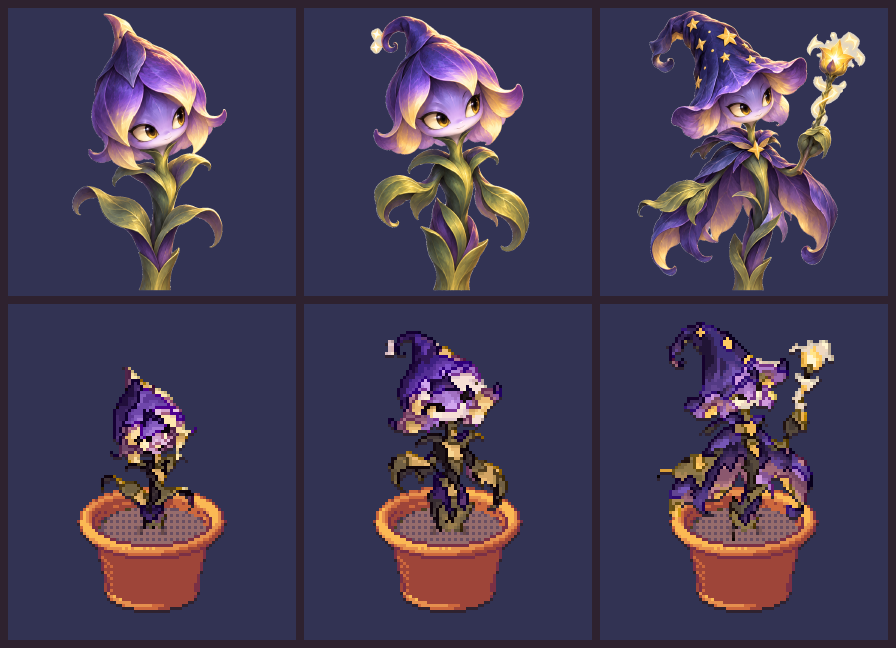
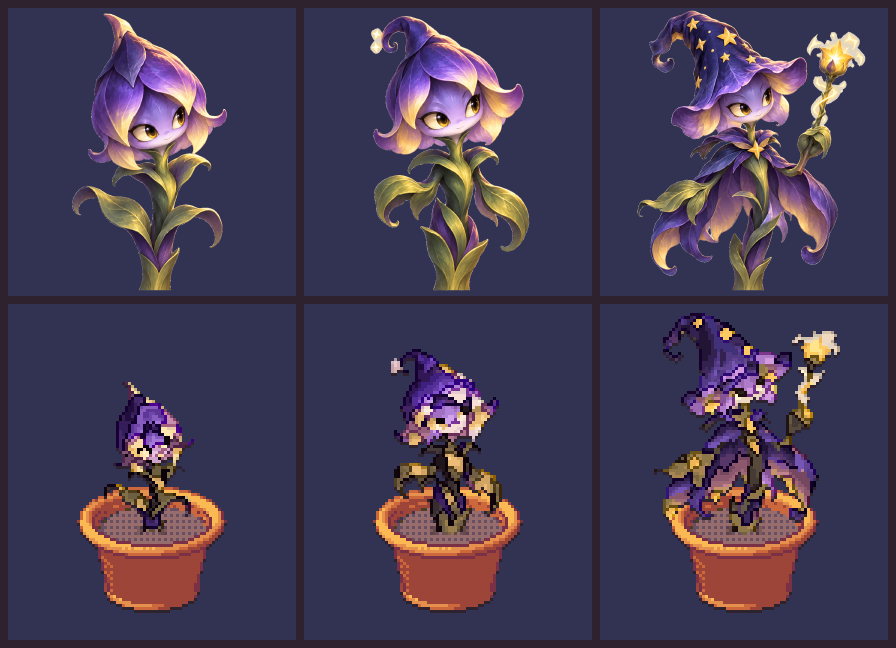
v2: 화분 풀(잔디 마개 · 밑동 갈색 흙 자리 · 자갈 · 앞 풀잎) · 식물 그림의 옛 보라 흙 걷어 내기 · 스마트팜 잔디 판도 같은 흙 자리 · 마법사 성체 키우고 자람 · 어린 줄임

Changed region(s): [[0.7188, 0.463, 0.9375, 0.8333], [0.4062, 0.4938, 0.5625, 0.8333], [0.0938, 0.5556, 0.2188, 0.8333]]

diff --git a/v2/src/art/potgrass.js b/v2/src/art/potgrass.js
@@ -1,0 +1,183 @@
+// 화분 풀 마개 · 밑동 흙 자리(2026-10-17 사용자 "경기나 대기실에서 화분의 흙이 어색한데 — 스마트 팜처럼 풀로 해줄 수 있나 · 풀도 더 자연스럽게 ·
+//  흙이나 자갈 등으로 자연스러운 경계가 되게"):
+//  capOf(화분 뒤 그림)   = 그 그림의 흙 칸 위 잔디 — 스마트팜 잔디와 같은 띠(뒤 어둡게 · 앞 밝게)에 옆으로 긴 얼룩 · 드문 풀잎 점 · 뒤 테 밑 그늘 · 테 쪽 삐죽 풀잎
+//  ringOf(식물, 뒤 그림) = 밑동 둘레 울퉁불퉁한 갈색 흙 자리(가장자리는 풀이 군데군데 덮음) + 자갈 몇 알 + 밑동에 닿은 그늘(식물 뒤) ·
+//                          front = 흙 자리 앞 테두리 풀잎 몇 가닥(밑동 앞 — 밑동이 풀 사이에서 나옴)
+//  bareOf(식물, 기본 화분 뒤) = 식물 그림에 구워 둔 옛 흙 덮기(보랏빛 흙 무늬 · 닿은 그림자 — tools/pixel/big/potblend.mjs soilCover)를 걷어 낸 판:
+//                          흙 덮기 칸 = 기본 각도 화분 뒤 그림의 그 칸 그대로(또는 ×0.68 · ×0.84 그늘) → 지우면 밑에 깐 흙 자리 · 풀이 보임
+//  dirtOf(식물, 기본 화분 뒤) = 같은 칸을 지우지 않고 갈색 흙(DIRT)으로 다시 칠한 판 — 스마트팜 잔디 판(앉힌 만큼 올려 그려 흙 덮기 띠가 보임)
+//  모두 96×112 판(식물은 시트 한 장)을 한 번 만들어 두고 다시 씀 — 그리는 순서: 화분 뒤 → cap → ring → 식물 under(bare) → front → 화분 앞 → over
+import { GRASS, POT_SOIL, DIRT, GRAVEL } from './palette.js';
+
+const W = 96, H = 112;
+const hsh = (a, b, c) => { let h = Math.imul(a | 0, 374761393) + Math.imul(b | 0, 668265263) + Math.imul(c | 0, 1442695041); h = Math.imul(h ^ (h >>> 13), 1274126177); return ((h ^ (h >>> 16)) >>> 0) / 4294967296; };
+const sm = t => t * t * (3 - 2 * t);
+const clamp = (v, a, b) => Math.max(a, Math.min(b, v));
+// 부드러운 결 소음(칸 sx × sy 격자 위 값을 이어 붙임) — 옆으로 긴 얼룩
+function vnoise(x, y, sx, sy, seed) {
+  const fx = x / sx, fy = y / sy, ix = Math.floor(fx), iy = Math.floor(fy), tx = sm(fx - ix), ty = sm(fy - iy);
+  const a = hsh(ix, iy, seed), b = hsh(ix + 1, iy, seed), c = hsh(ix, iy + 1, seed), d = hsh(ix + 1, iy + 1, seed);
+  return (a + (b - a) * tx) * (1 - ty) + (c + (d - c) * tx) * ty;
+}
+const hex = s => [parseInt(s.slice(1, 3), 16), parseInt(s.slice(3, 5), 16), parseInt(s.slice(5, 7), 16)];
+const SOIL_RGB = POT_SOIL.map(hex), DIRT_RGB = DIRT.map(hex);
+let tmpC = null;
+function pixelsOf(im, sx = 0, sy = 0) {   // 그림(또는 시트의 한 칸 96×112)의 RGBA
+  if (!tmpC) tmpC = document.createElement('canvas');
+  tmpC.width = W; tmpC.height = H;
+  const c = tmpC.getContext('2d', { willReadFrequently: true });
+  c.clearRect(0, 0, W, H); c.drawImage(im, sx, sy, W, H, 0, 0, W, H);
+  return c.getImageData(0, 0, W, H).data;
+}
+function canvasOf(put) {
+  const cv = document.createElement('canvas'); cv.width = W; cv.height = H;
+  const c = cv.getContext('2d'), img = c.createImageData(W, H);
+  put((x, y, col) => { if (x < 0 || y < 0 || x >= W || y >= H) return; const k = (y * W + x) * 4, [r, g, b] = hex(col); img.data[k] = r; img.data[k + 1] = g; img.data[k + 2] = b; img.data[k + 3] = 255; });
+  c.putImageData(img, 0, 0);
+  return cv;
+}
+// 흙 칸 틀(화분 뒤 그림에서 흙 색표인 칸) + 행 범위
+const maskCache = new WeakMap();
+function soilMask(back) {
+  let m = maskCache.get(back); if (m) return m;
+  const d = pixelsOf(back), M = new Uint8Array(W * H);
+  let y0 = H, y1 = -1, x0 = W, x1 = -1;
+  for (let y = 40; y < 100; y++) for (let x = 8; x < 88; x++) {
+    const k = (y * W + x) * 4; if (d[k + 3] < 128) continue;
+    if (SOIL_RGB.some(([r, g, b]) => d[k] === r && d[k + 1] === g && d[k + 2] === b)) { M[y * W + x] = 1; y0 = Math.min(y0, y); y1 = Math.max(y1, y); x0 = Math.min(x0, x); x1 = Math.max(x1, x); }
+  }
+  // 흙 덩어리에 안 붙은 외딴 칸(화분 테의 어두운 테두리 칸 등)은 뺌 — 4이웃 중 흙이 하나 이하
+  for (let y = y0; y <= y1; y++) for (let x = x0; x <= x1; x++) { const i = y * W + x; if (M[i] && (M[i - 1] || 0) + (M[i + 1] || 0) + (M[i - W] || 0) + (M[i + W] || 0) <= 1) M[i] = 2; }
+  for (let i = 0; i < W * H; i++) if (M[i] === 2) M[i] = 0;
+  m = { M, y0, y1, x0, x1, d, opaque: i => d[i * 4 + 3] >= 128 };
+  maskCache.set(back, m); return m;
+}
+// ① 잔디 마개
+const capCache = new WeakMap();
+export function capOf(back) {
+  if (!back) return null;
+  let cv = capCache.get(back); if (cv) return cv;
+  const S = soilMask(back), { M, y0, y1 } = S, span = Math.max(1, y1 - y0), thin = span <= 4, seed = 7;
+  cv = canvasOf(put => {
+    for (let y = y0; y <= y1; y++) for (let x = S.x0; x <= S.x1; x++) {
+      const i = y * W + x; if (!M[i]) continue;
+      const k = (y - y0) / span;
+      let c = k > 0.7 ? 6 : k > 0.3 ? 5 : 4;                                  // 스마트팜 잔디와 같은 띠(뒤 → 앞 밝게)
+      const blob = vnoise(x, y, thin ? 7 : 6, thin ? 2 : 2.6, seed);          // 옆으로 긴 얼룩 — 띠가 자로 잰 듯 곧지 않게
+      if (blob > 0.68) c += 1; else if (blob < 0.3) c -= 1;
+      if (!M[i - W]) c = Math.min(c, 3); else if (!M[i - 2 * W]) c = Math.min(c, 4);   // 뒤 테 밑 = 그늘(두 줄)
+      const v = hsh(x, y, seed);
+      if (v > 0.9) c = Math.max(c, 7) + (v > 0.985 ? 1 : 0);                  // 풀잎 점은 드문드문(빽빽하면 자글자글)
+      else if (v < 0.04) c = Math.min(c, 3);
+      put(x, y, GRASS[clamp(c, 2, 8)]);
+    }
+    // 뒤 테 쪽 위로 삐죽 풀잎(안쪽 벽 앞 — 1칸, 가끔 2칸) — 얇은 각도(대기실 12°)는 1칸만
+    for (let x = S.x0; x <= S.x1; x++) {
+      let yt = -1; for (let y = y0; y <= y1; y++) if (M[y * W + x]) { yt = y; break; }
+      if (yt < 0) continue;
+      const v = hsh(x, 3, 31); if (v < 0.6) continue;
+      const h = !thin && v > 0.92 ? 2 : 1;
+      for (let j = 1; j <= h; j++) if (S.opaque((yt - j) * W + x)) put(x, yt - j, GRASS[j === h ? 5 : 4]);
+    }
+  });
+  capCache.set(back, cv); return cv;
+}
+// 밑동 자리 재기: 식물 under 층 첫 장에서 흙 줄 바로 위 줄의 밑동 덩어리(가운데에 가장 가까운) — [왼쪽, 오른쪽, 아래 끝 줄]
+function stemOf(P) {
+  const m = P.meta, d = pixelsOf(P.sheet, 0, 0), ys = Math.round(m.soil[1]), cx = Math.round(m.soil[0]);
+  const soilish = k => SOIL_RGB.some(([r, g, b]) => Math.abs(d[k] - r) + Math.abs(d[k + 1] - g) + Math.abs(d[k + 2] - b) < 24);
+  for (let y = ys; y >= ys - 8; y--) {   // 흙 덮기 칸(흙 색)은 밑동으로 안 셈
+    const on = x => { const k = (y * W + x) * 4; return d[k + 3] >= 128 && !soilish(k); };
+    let best = null;
+    for (let x = cx - 24; x <= cx + 24; x++) {
+      if (!on(x)) continue;
+      let r = x; while (r + 1 <= cx + 24 && on(r + 1)) r++;
+      const dist = x <= cx && r >= cx ? 0 : Math.min(Math.abs(x - cx), Math.abs(r - cx));
+      if (!best || dist < best.dist) best = { l: x, r, dist };
+      x = r;
+    }
+    if (best && best.dist <= 8) return [best.l, best.r, y];
+  }
+  return [cx - 2, cx + 2, ys];
+}
+// ② 밑동 흙 자리 + 앞 풀잎 — 화분(뒤 그림 흙 칸 안) · 잔디 판(bed — 칸 틀 없음)
+const ringCache = new Map();
+function ringOf2(P, key, back) {
+  const id = key + '|' + (back ? (back.src || back.width + 'x' + back.height + ':' + (ringCache.size)) : 'bed');
+  let r = ringCache.get(id); if (r) return r;
+  const [l, rr, sy] = stemOf(P), S = back ? soilMask(back) : null, span = S ? Math.max(1, S.y1 - S.y0) : 6;
+  const cx = (l + rr + 1) / 2, rx = Math.max(5, (rr - l + 1) / 2 + 4), k = S ? Math.min(0.42, (span + 1) / Math.max(1, S.x1 - S.x0 + 1) * 1.15) : 0.3, ry = Math.max(1.5, rx * k);
+  const cy = S ? Math.min(sy + 0.5, S.y1 - ry * 0.4) : sy + 0.5, seed = key.length * 13 + (back ? 1 : 2);
+  const inside = (x, y) => {
+    if (S && !S.M[y * W + x]) return false;
+    const dx = (x + 0.5 - cx) / rx, dy = (y + 0.5 - cy) / ry, a = Math.atan2(dy, dx);
+    return Math.hypot(dx, dy) < 0.86 + 0.32 * vnoise(Math.cos(a) * 3 + 9, Math.sin(a) * 3 + 9, 1.3, 1.3, seed);
+  };
+  const ring = canvasOf(put => {
+    for (let y = Math.floor(cy - ry - 2); y <= Math.ceil(cy + ry + 2); y++) for (let x = Math.floor(cx - rx - 2); x <= Math.ceil(cx + rx + 2); x++) {
+      if (!inside(x, y)) continue;
+      const edge = !inside(x - 1, y) || !inside(x + 1, y) || !inside(x, y - 1) || !inside(x, y + 1);
+      if (edge && hsh(x, y, seed + 77) < 0.3) continue;                          // 가장자리는 풀이 군데군데 덮음(자로 그은 테두리가 안 보이게)
+      const v = hsh(x, y, seed), near = Math.hypot((x + 0.5 - cx) / rx, (y + 0.5 - cy) / ry);
+      let c = v > 0.97 ? 4 : v > 0.86 ? 3 : v < 0.1 ? 1 : 2;                    // 갈색 흙 · 군데군데 밝은 부스러기
+      if (!inside(x, y - 1)) c = Math.min(c, 1);                                  // 흙 자리 뒤 가장자리 = 풀 그늘
+      if (near < 0.42) c = Math.min(c, 1);                                        // 밑동 둘레 = 그늘
+      put(x, y, DIRT[c]);
+    }
+    // 밑동에 닿은 그늘(밑동 양옆 두 칸)
+    for (const [x, c] of [[l - 1, 0], [l - 2, 1], [rr + 1, 0], [rr + 2, 1]]) for (const y of [sy, sy + 1]) if (inside(x, y)) put(x, y, DIRT[c]);
+    // 자갈: 흙 자리 앞쪽 반(밑동에 안 가리는 쪽) 가장자리에 두세 알(밝은 칸 + 몸 칸 + 아래 그늘)
+    let n = 0;
+    for (let t = 0; t < 60 && n < 3; t++) {
+      const a = (0.08 + 0.84 * hsh(t, seed, 71)) * Math.PI, q = 0.55 + 0.35 * hsh(t, seed, 73), x = Math.round(cx + Math.cos(a) * rx * q), y = Math.round(cy + Math.sin(a) * ry * q);
+      if (!inside(x, y) || !inside(x + 1, y) || (x >= l - 2 && x <= rr + 2)) continue;
+      put(x, y, GRAVEL[3]); put(x + 1, y, GRAVEL[2]); if (ry >= 2 && inside(x, y + 1)) put(x + (hsh(t, seed, 79) > 0.5 ? 1 : 0), y + 1, GRAVEL[0]);
+      n++;
+    }
+  });
+  // 앞 풀잎: 흙 자리 앞 테두리 바로 아래에서 위로 1~3칸(얇은 각도는 1~2칸) — 밑동 앞에 겹쳐 그림
+  const front = canvasOf(put => {
+    const hmax = ry < 1.6 ? 2 : 3;
+    for (let x = Math.floor(cx - rx); x <= Math.ceil(cx + rx); x++) {
+      let yb = -1; for (let y = Math.ceil(cy + ry + 1); y >= Math.floor(cy - ry); y--) if (inside(x, y)) { yb = y; break; }
+      if (yb < 0) continue;
+      const v = hsh(x, 5, seed), onStem = x >= l && x <= rr;
+      if (v < (onStem ? 0.35 : 0.55)) continue;
+      const h = 1 + Math.floor(hsh(x, 9, seed) * hmax), base = yb + 1;
+      if (S && !S.M[base * W + x] && !S.M[(base - 1) * W + x]) continue;
+      for (let j = 0; j < h; j++) put(x + (j === h - 1 && hsh(x, 11, seed) > 0.7 ? (hsh(x, 13, seed) > 0.5 ? 1 : -1) : 0), base - j, GRASS[j === h - 1 ? 7 : j ? 6 : 5]);
+    }
+  });
+  r = { ring, front };
+  if (ringCache.size > 200) ringCache.clear();
+  ringCache.set(id, r); return r;
+}
+export const ringOf = (P, key, back) => (P && back ? ringOf2(P, key, back) : null);
+export const bedOf = (P, key) => (P ? ringOf2(P, key, null) : null);
+// ③ 옛 흙 덮기를 걷어 낸(bare) · 갈색으로 다시 칠한(dirt) 식물 시트(under 칸만 — over 는 화분 앞에 나온 덩어리라 흙 덮기가 없음)
+const bareCache = new WeakMap(), dirtCache = new WeakMap();
+export const bareOf = (P, back) => stripCover(P, back, bareCache, false);
+export const dirtOf = (P, back) => stripCover(P, back, dirtCache, true);
+function stripCover(P, back, cache, dirt) {
+  if (!P || !back) return null;
+  let cv = cache.get(P.sheet); if (cv) return cv;
+  const m = P.meta, S = soilMask(back), bd = S.d, sh = P.sheet;
+  cv = document.createElement('canvas'); cv.width = sh.width; cv.height = sh.height;
+  const c = cv.getContext('2d', { willReadFrequently: true }); c.drawImage(sh, 0, 0);
+  const img = c.getImageData(0, 0, cv.width, cv.height), d = img.data, SW = cv.width, row0 = Math.max(S.y0, Math.floor(m.soil[1]) - 2);
+  for (let fy = 0; fy < m.rows; fy++) for (let fx = 0; fx < m.cols; fx++) {
+    const ox = fx * m.w, oy = fy * m.h;
+    for (let y = row0; y <= S.y1; y++) for (let x = S.x0; x <= S.x1; x++) {
+      if (!S.M[y * W + x]) continue;
+      const k = ((oy + y) * SW + ox + x) * 4; if (d[k + 3] < 128) continue;
+      const b = (y * W + x) * 4;
+      for (const f of [1, 0.68, 0.84]) if (Math.abs(d[k] - Math.round(bd[b] * f)) <= 1 && Math.abs(d[k + 1] - Math.round(bd[b + 1] * f)) <= 1 && Math.abs(d[k + 2] - Math.round(bd[b + 2] * f)) <= 1) {
+        if (!dirt) { d[k + 3] = 0; break; }
+        const si = SOIL_RGB.findIndex(([r, g2, b2]) => r === bd[b] && g2 === bd[b + 1] && b2 === bd[b + 2]), di = Math.max(0, Math.min(4, (si < 0 ? 2 : si) - (f < 1 ? (f < 0.8 ? 2 : 1) : 0)));
+        const [r, g2, b2] = DIRT_RGB[di]; d[k] = r; d[k + 1] = g2; d[k + 2] = b2; break;
+      }
+    }
+  }
+  c.putImageData(img, 0, 0);
+  cache.set(P.sheet, cv); return cv;
+}

diff --git a/v2/src/art/sprites.js b/v2/src/art/sprites.js
@@ -1,6 +1,7 @@
 // 그림 파일(48×56 도트) 불러오기. 원본 레시피 = tools/pixel/sprites-data.js, 내보내기 = node tools/pixel/export.mjs
 import { C } from './palette.js';
 import { frameAt } from '../core/motion.js';
+import { capOf, ringOf, bedOf, bareOf, dirtOf } from './potgrass.js';
 
 // 첫 출시 도감 = 1궤도 행성 세 곳의 기본 11종 + 지역 희귀 스포어캡
 export const ROSTER = ['flower_grass', 'thorn', 'aqua', 'flower_wind', 'spark', 'vine_water', 'cactus_fire', 'gaia', 'flower_fire', 'cactus_wind', 'vine_wind', 'spore_cap', 'frost_bell', 'volt_vine', 'stone_cap', 'jelly_cap', 'fang_trap', 'blade_vine', 'toxi_cactus', 'draco_fruit', 'ember_cap', 'drake_cactus', 'gat_cap', 'mask_vine', 'drum_cactus', 'lantern_vine', 'jar_cactus', 'goblin_cap', 'crown_cap', 'frost_drake', 'gladi_cactus', 'jangseung_cactus', 'astro_cap', 'viking_cap', 'hyunmu_cap', 'gumiho_bloom', 'wizard_bell', 'ninja_vine', 'diver_vine'];
@@ -124,6 +125,26 @@ function part(g, im, sx, sy, w, h, x, y, flip, dw = w, dh = h) {
   if (flip) { c.save(); c.translate(x + dw, y); c.scale(-1, 1); c.drawImage(im, sx, sy, w, h, 0, 0, dw, dh); c.restore(); }
   else c.drawImage(im, sx, sy, w, h, x, y, dw, dh);
 }
+// 화분 풀(2026-10-17 사용자 "경기나 대기실에서 화분의 흙이 어색한데 — 스마트 팜처럼 풀로 · 흙이나 자갈 등으로 자연스러운 경계", art/potgrass.js):
+//  화분 뒤 → 풀 마개 → 밑동 흙 자리(식물 뒤) → 식물 under → 앞 풀잎(밑동 앞) → 화분 앞 → over
+function grassBack(g, P, key, back, x, y, fl) {
+  const cap = capOf(back); if (cap) part(g, cap, 0, 0, 96, 112, x, y, fl);
+  const r = P && ringOf(P, key, back); if (r) part(g, r.ring, 0, 0, 96, 112, x, y, fl);
+  return r;
+}
+const grassFront = (g, r, x, y, fl) => { if (r) part(g, r.front, 0, 0, 96, 112, x, y, fl); };
+// 옛 흙 덮기(보랏빛 흙 무늬)를 걷어 낸 시트 + 맞은 순간 흰 판(art/potgrass.js bareOf — 기본 각도 테라코타 뒤 그림을 받은 뒤부터, 그 전엔 원래 시트)
+function bareSet(P) {
+  if (P.bare) return P.bare;
+  const back = POT_BIG.pot_terra && POT_BIG.pot_terra.back, sheet = back && bareOf(P, back);
+  if (!sheet) return { sheet: P.sheet, white: P.white };
+  return (P.bare = { sheet, white: whiteOf(sheet) });
+}
+function dirtSheet(P) {   // 스마트팜 잔디 판: 흙 덮기 띠를 갈색 흙으로
+  if (P.dirt) return P.dirt;
+  const back = POT_BIG.pot_terra && POT_BIG.pot_terra.back, sheet = back && dirtOf(P, back);
+  return sheet ? (P.dirt = sheet) : P.sheet;
+}
 // 화분에 심은 큰 판 식물: (bx, by) = 화분 굽이 바닥에 닿는 점. t = 시각(ms), phase = 숨 엇갈림(ms), flip = 좌우 뒤집기(상대), flash = 맞은 순간 하얗게
 // 게임 단계 → 그림 단계(CHANGELOG 2026-10-15 "게임 6단계와 잇기": 씨앗·새싹·유체 → 어린, 성장체 → 자람, 성체·완숙체 → 성체)
 const STAGE_ART = { seed: 'young', sprout: 'young', juvenile: 'young', growing: 'teen', mature: null, evolved: null };
@@ -140,15 +161,17 @@ export function drawBig(g, key, potKey, bx, by, opt = {}) {
   by -= vdy;
   if (!P) {   // 빈 화분
     const x = Math.round(bx - 48), y = Math.round(by - 96.55);
-    part(g, pot.back, 0, 0, 96, 112, x, y, false); part(g, pot.front, 0, 0, 96, 112, x, y, false);
+    part(g, pot.back, 0, 0, 96, 112, x, y, false); grassBack(g, null, null, pot.back, x, y, false); part(g, pot.front, 0, 0, 96, 112, x, y, false);
     return !key;
   }
   const m = P.meta, x = Math.round(bx - m.base[0]), y = Math.round(by - m.base[1]), t = Math.max(0, (opt.t || 0) + (opt.phase || 0));
   let f = frameAt(t, m.frameMs, m.frames);
   if (m.blinkIndex != null && f >= m.blinkAt && f < m.blinkAt + 4 && blinkLoop(key, Math.floor(t / (m.frames * m.frameMs)))) f = m.blinkIndex + f - m.blinkAt;
-  const sx = (f % m.cols) * m.w, sy = Math.floor(f / m.cols) * m.h, src = opt.flash ? P.white : P.sheet, fl = !!opt.flip;
+  const sx = (f % m.cols) * m.w, sy = Math.floor(f / m.cols) * m.h, B = bareSet(P), src = opt.flash ? B.white : B.sheet, fl = !!opt.flip;
   part(g, pot.back, 0, 0, m.w, m.h, x, y, fl);
+  const gr = grassBack(g, P, key, pot.back, x, y, fl);
   part(g, src, sx, sy, m.w, m.h, x, y, fl);
+  grassFront(g, gr, x, y, fl);
   part(g, pot.front, 0, 0, m.w, m.h, x, y, fl);
   part(g, src, sx, sy + m.rows * m.h, m.w, m.h, x, y, fl);
   return true;
@@ -162,13 +185,13 @@ export function plantLayer(key, potKey, bx, by, opt = {}) {
   const m = P.meta, x = Math.round(bx - m.base[0]), y = Math.round(by - vdy - m.base[1]), t = Math.max(0, (opt.t || 0) + (opt.phase || 0));
   let f = frameAt(t, m.frameMs, m.frames);
   if (m.blinkIndex != null && f >= m.blinkAt && f < m.blinkAt + 4 && blinkLoop(key, Math.floor(t / (m.frames * m.frameMs)))) f = m.blinkIndex + f - m.blinkAt;
-  const sx = (f % m.cols) * m.w, sy = Math.floor(f / m.cols) * m.h;
+  const sx = (f % m.cols) * m.w, sy = Math.floor(f / m.cols) * m.h, B = bareSet(P);
   if (!layerCv) { layerCv = document.createElement('canvas'); layerCx = layerCv.getContext('2d', { willReadFrequently: true }); }
   if (layerCv.width !== m.w || layerCv.height !== m.h) { layerCv.width = m.w; layerCv.height = m.h; }
   const c = layerCx; c.imageSmoothingEnabled = false; c.clearRect(0, 0, m.w, m.h);
-  c.globalCompositeOperation = 'source-over'; c.drawImage(P.sheet, sx, sy, m.w, m.h, 0, 0, m.w, m.h);
+  c.globalCompositeOperation = 'source-over'; c.drawImage(B.sheet, sx, sy, m.w, m.h, 0, 0, m.w, m.h);
   c.globalCompositeOperation = 'destination-out'; c.drawImage(pot.front, 0, 0, m.w, m.h, 0, 0, m.w, m.h);
-  c.globalCompositeOperation = 'source-over'; c.drawImage(P.sheet, sx, sy + m.rows * m.h, m.w, m.h, 0, 0, m.w, m.h);
+  c.globalCompositeOperation = 'source-over'; c.drawImage(B.sheet, sx, sy + m.rows * m.h, m.w, m.h, 0, 0, m.w, m.h);
   return { img: c.getImageData(0, 0, m.w, m.h), x, y, w: m.w, h: m.h, flip: !!opt.flip };
 }
 // 큰 판 한 장 고르기(숨쉬기 + 깜빡임)
@@ -177,15 +200,18 @@ function bigFrame(key, m, t) {
   if (m.blinkIndex != null && f >= m.blinkAt && f < m.blinkAt + 4 && blinkLoop(key, Math.floor(t / (m.frames * m.frameMs)))) f = m.blinkIndex + f - m.blinkAt;
   return [(f % m.cols) * m.w, Math.floor(f / m.cols) * m.h];
 }
-// 잔디에 심긴 큰 판 식물(화분 없이, 양육 스마트팜): (bx, by) = 흙 줄 가운데. 흙 줄 아래는 안 그림 — 뒤 층 → between(잔디 덤불) → 앞 층
+// 잔디에 심긴 큰 판 식물(화분 없이, 양육 스마트팜): (bx, by) = 흙 줄 가운데. 흙 줄 아래는 안 그림 — 밑동 흙 자리(식물 뒤) → 뒤 층 → 앞 풀잎 → between → 앞 층
+//  흙 자리 · 풀잎 = 화분과 같은 것(art/potgrass.js bedOf — 2026-10-17 사용자 "풀도 더 자연스럽게 · 흙이나 자갈 등으로 자연스러운 경계"), 흙 덮기 띠는 갈색 흙으로(dirtOf)
 export function drawBigPlanted(g, key, bx, by, opt = {}) {
   const P = BIG[key]; if (!P) return false;
   //  화분에 앉힌 칸(m.sink — 굵은 밑동이 화분 흙에 묻히게 내린 만큼)은 잔디에선 다시 올림: 안 올리면 밑동이 잘려 움푹 파인 듯 · 뒤에 놓인 듯 보였음(2026-10-17 사용자 "스마트팜에서 불 선인장 밑동이 움푹 파여 있고 뒤에 배치된 것 같아")
   const m = P.meta, x = Math.round(bx - m.soil[0]), y = Math.round(by - m.soil[1] - (m.sink || 0)), [sx, sy] = bigFrame(key, m, Math.max(0, (opt.t || 0) + (opt.phase || 0)));
-  const cut = Math.round(by) - y;
-  g.clip(x, y, m.w, cut, () => part(g, P.sheet, sx, sy, m.w, m.h, x, y, false));
+  const cut = Math.round(by) - y, bed = bedOf(P, key), D = dirtSheet(P), ry = y + (m.sink || 0);   // 흙 자리는 흙 줄에(잔디 판은 앉힌 만큼 올려 그리므로 그만큼 내려 그림)
+  if (bed) part(g, bed.ring, 0, 0, 96, 112, x, ry, false);
+  g.clip(x, y, m.w, cut, () => part(g, D, sx, sy, m.w, m.h, x, y, false));
+  if (bed) part(g, bed.front, 0, 0, 96, 112, x, ry, false);
   if (opt.between) opt.between();
-  g.clip(x, y, m.w, cut + 2, () => part(g, P.sheet, sx, sy + m.rows * m.h, m.w, m.h, x, y, false));
+  g.clip(x, y, m.w, cut + 2, () => part(g, D, sx, sy + m.rows * m.h, m.w, m.h, x, y, false));
   return true;
 }
 // 화분째 큰 판 식물: (bx, by) = 화분 흙 줄 가운데. between = 흙 위 잔디 마개 등 — 식물 뒤에(capUnder — 몸통이 넓은 선인장 · 버섯도 마개에 묻혀 '얹힌' 듯 보이지 않게, 2026-10-16 사용자 "불 선인장이 화분의 중앙이 아닌 다른 곳에")
@@ -195,11 +221,13 @@ export function drawBigPotted(g, key, potKey, bx, by, opt = {}) {
   const m = P ? P.meta : { w: 96, h: 112, soil: [48, 75.7] }, x = Math.round(bx - m.soil[0]), y = Math.round(by - m.soil[1]);
   const rv = opt.reveal == null ? 1 : Math.max(0, Math.min(1, opt.reveal)), cy = y + Math.round(m.soil[1] * (1 - rv)), plant = fn => (rv >= 1 ? fn() : g.clip(x, cy, m.w, m.h, fn));
   part(g, pot.back, 0, 0, 96, 112, x, y, false);
+  const gr = grassBack(g, P, key, pot.back, x, y, false);
   if (opt.between && opt.capUnder) opt.between(x, y);
-  let sx = 0, sy = 0; if (P && rv > 0) { [sx, sy] = bigFrame(key, m, Math.max(0, (opt.t || 0) + (opt.phase || 0))); plant(() => part(g, P.sheet, sx, sy, m.w, m.h, x, y, false)); }
+  let sx = 0, sy = 0; const B = P && bareSet(P); if (P && rv > 0) { [sx, sy] = bigFrame(key, m, Math.max(0, (opt.t || 0) + (opt.phase || 0))); plant(() => part(g, B.sheet, sx, sy, m.w, m.h, x, y, false)); }
+  if (P && rv > 0) grassFront(g, gr, x, y, false);
   if (opt.between && !opt.capUnder) opt.between(x, y);
   part(g, pot.front, 0, 0, 96, 112, x, y, false);
-  if (P && rv > 0) plant(() => part(g, P.sheet, sx, sy + m.rows * m.h, m.w, m.h, x, y, false));
+  if (P && rv > 0) plant(() => part(g, B.sheet, sx, sy + m.rows * m.h, m.w, m.h, x, y, false));
   return true;
 }
 // 몸놀림을 준 큰 판 식물(전투 공격·피격): 흙 위 몸만 기울인다 — 흙 높이 0 → 맨 위 1만큼 (qx, qy)칸(그림 좌표, 뒤집기 전),
@@ -210,7 +238,7 @@ export function drawBigPose(g, key, potKey, bx, by, opt = {}) {
   by -= vdy;
   const m = P.meta, x = Math.round(bx - m.base[0]), y = Math.round(by - m.base[1]), t = Math.max(0, (opt.t || 0) + (opt.phase || 0));
   const f = frameAt(t, m.frameMs, m.frames), sx = (f % m.cols) * m.w, sy = Math.floor(f / m.cols) * m.h;
-  const src = opt.flash ? P.white : P.sheet, fl = !!opt.flip, soil = m.soil[1], sc = 1 - (opt.sq || 0) * 0.03, qx = opt.qx || 0, qy = opt.qy || 0;
+  const B = bareSet(P), src = opt.flash ? B.white : B.sheet, fl = !!opt.flip, soil = m.soil[1], sc = 1 - (opt.sq || 0) * 0.03, qx = opt.qx || 0, qy = opt.qy || 0;
   const rows = oy => {
     const c = g.c; c.save(); c.imageSmoothingEnabled = false;
     if (fl) { c.translate(x + m.w, y); c.scale(-1, 1); } else c.translate(x, y);
@@ -223,7 +251,9 @@ export function drawBigPose(g, key, potKey, bx, by, opt = {}) {
     c.restore();
   };
   part(g, pot.back, 0, 0, m.w, m.h, x, y, fl);
+  const gr = grassBack(g, P, key, pot.back, x, y, fl);
   rows(sy);
+  grassFront(g, gr, x, y, fl);
   part(g, pot.front, 0, 0, m.w, m.h, x, y, fl);
   rows(sy + m.rows * m.h);
   return true;

diff --git a/v2/src/scenes/nursery.js b/v2/src/scenes/nursery.js
@@ -225,9 +225,10 @@ export const nursery = {
   },
   // 잔디에 심긴 식물(큰 판 그림 — 2026-10-15 "식물이 너무 멀어 좀 땡겨와줘", 숨쉬기·깜빡임 그대로): 흙 줄 위만, 밑동은 잔디 덤불이 덮음
   planted(g, it, sx, sy, band, t) {
-    // 밑동 둘레 잔디 = 얇게(흙 줄 가운데에서 위아래 2칸 + 풀잎) — 전엔 5~7칸 높이로 밑동을 덮어 식물이 덤불 뒤 구덩이에서 나오는 듯(움푹 · 뒤에 놓인 듯) 보였음(2026-10-17)
+    // 밑동 둘레 = 갈색 흙 자리 + 자갈 + 앞 풀잎(sprites.js drawBigPlanted · art/potgrass.js — 화분과 같은 것, 2026-10-17 "풀도 더 자연스럽게 · 흙이나 자갈 등으로 자연스러운 경계").
+    //  전엔 잔디 덤불 타원(16×2)이 밑동을 덮었음 — 그림이 아직 없을 때만 그 덤불
     const tuft = () => grassOval(g, sx, sy + 1, 16, 2, it.seed);
-    if (!drawBigPlanted(g, bigKey(it.p.key, stageKey(it.p)), sx, sy, { t, phase: it.i * 700, between: tuft })) tuft();
+    if (!drawBigPlanted(g, bigKey(it.p.key, stageKey(it.p)), sx, sy, { t, phase: it.i * 700 })) tuft();
   },
   // 고른 식물: 잔디 마개를 인 화분이 기계 구멍에서 솟음(구멍 = 금속 테 · 어두운 통로 속 고리 · 푸른 불빛, 화분 아래 피스톤과 받침)
   lifted(g, it, sx, sy, band, L, t) {
@@ -255,7 +256,7 @@ export const nursery = {
     const F = this.plantFx && this.plantFx.id === it.id && this.plantFx.t0 != null ? this.plantFx : null, fa = F ? t - F.t0 : 1e9, GROW = 750;
     const reveal = F ? clamp((fa - 300) / GROW, 0, 1) : 1;
     if (F && fa > 300 && !F.bloom) { F.bloom = true; sfx('bloom'); }
-    drawBigPotted(g, bigKey(it.p.key, stageKey(it.p)), it.p.pot, sx, soilY, { t, phase: it.i * 700, capUnder: true, reveal: ease(reveal), between: () => grassOval(g, sx, soilY - 2, 17, 4, it.seed) });   // 화분 위 잔디 마개(상자 잔디와 같은 색·같은 풀잎 점) — 식물 뒤
+    drawBigPotted(g, bigKey(it.p.key, stageKey(it.p)), it.p.pot, sx, soilY, { t, phase: it.i * 700, reveal: ease(reveal) });   // 화분 풀 · 밑동 흙 자리 = sprites.js(art/potgrass.js — 2026-10-17)
     c.restore();
     if (F) {
       if (fa < 300) { const k = Math.max(0, fa) / 300, yy = Math.round(soilY - 46 + 44 * k * k); g.rect(sx - 2, yy - 2, 4, 5, '#6b4a2a'); g.rect(sx - 1, yy - 3, 2, 1, '#a07848'); g.px(sx + 1, yy - 1, '#c8a070'); }   // 떨어지는 씨앗

diff --git a/v2/src/art/palette.js b/v2/src/art/palette.js
@@ -54,6 +54,13 @@ export const TYPE = {
   tree: '목본', flower: '화초', cactus: '다육', vine: '덩굴', mushroom: '버섯',
 };
 
+// 풀 · 흙 · 자갈(2026-10-17 — 스마트팜 잔디 · 화분 풀 마개 · 밑동 흙 자리, art/potgrass.js): 풀 = 스마트팜 잔디 한 벌(어두움 → 밝음 9단 — 2026-10-16부터 쓰던 색)
+//  POT_SOIL = 화분 그림의 흙 색표(pot3d.mjs SOIL — 화분 그림에서 흙 칸을 찾을 때만) · DIRT = 밑동 흙 자리(갈색 — 옛 보랏빛 흙 대신, 어두움 → 밝음) · 자갈 = 회색 단(그늘 → 빛)
+export const GRASS = ['#10261a', '#183a22', '#21502b', '#2c6834', '#3a823e', '#4c9a48', '#62b254', '#86cc66', '#a8e084'];
+export const POT_SOIL = ['#2e222f', '#3e3546', '#4c3e24', '#694f62', '#966c6c'];
+export const DIRT = ['#221a14', '#3b2b1f', '#574130', '#735a40', '#937552'];
+export const GRAVEL = ['#3e3546', '#625565', '#9babb2', '#c7dcd0'];
+
 // 4×4 베이어 행렬 — 디더(점 섞기) 단계용
 export const BAYER4 = [
   [0, 8, 2, 10],

diff --git a/CLAUDE.md b/CLAUDE.md
@@ -42,6 +42,7 @@
 - 🚀 **v2 처음 로딩(2026-10-17 사용자 "처음에 로딩시간 너무 긴데"):** 처음 화면 그림만 먼저(`sprites.js FIRST_BG/FIRST_BIG`) → 바로 조율, 글꼴 · 나머지는 조율 동안 한꺼번에(`main.js`, 다 받기 전 '게임 시작' = 준비 중). 처음 화면에 새 그림을 쓰면 FIRST_* 에 넣을 것. 글꼴 = 줄인 `assets/fonts/sub/`(한글 상용 2,350자 + 코드 글자) — 화면 글에 상용 밖 글자를 새로 쓰면 `tools/fonts/subset.py`로 다시 만듦.
 - 🔥 **v2 발열(2026-10-17 사용자 "게임 발열이 심하다는데"):** 장 수 = `main.js frame`(만지는 중 · 뗀 뒤 1.2초 · 장면 전환 · 장면 `fast(app)` = 1초 60장, 그 밖 30장) — 새 연출이 60장이 필요하면 그 장면에 `fast(app)`. 장마다 점 수천 개를 찍지 말 것: 움직이지 않는 그림은 판(`layer`)에 한 번 그려 다시 쓰고(본보기 `gfx.js vgrad` · `bg.js stars/planet/space`), 칸마다 셈하는 효과는 무늬가 바뀔 때만(`loft.js` 안개). 점검 = `node tools/shots/perfcheck.mjs [--cpu 4]`(장면마다 그린 장 수 · 장당 ms · CPU).
 - 🎟 **v2 쿠폰(2026-10-17):** 설정 → '쿠폰 입력' → `POST /api/coupon`(계정마다 한 번 · 계정 수 · 기간 · 10분에 12번) — 만들기 · 보기 · 지우기 = `node server/coupon.mjs --url https://pulloseum.getchat.workers.dev add <번호> --credits N --gems N --seeds rare,… --cards normal,mut --max N --days N` · `list` · `del <번호>`(관리 열쇠 `cf/.admin-key`), 보상 칸 = `logic.js cleanCoupon`. ⚠ 실제 번호는 저장소 · 문서에 적지 않음(PUBLIC). 시험 `tools/test/coupon.mjs`.
+- 🌱 **v2 화분 풀(2026-10-17 사용자 "화분의 흙이 어색 — 스마트 팜처럼 풀로 · 흙이나 자갈로 자연스러운 경계"):** 화분 흙 칸 = 잔디 마개(`art/potgrass.js capOf`) + 밑동 갈색 흙 자리 · 자갈 · 앞 풀잎(`ringOf`), 스마트팜 잔디 판도 같은 흙 자리(`bedOf`). 식물 그림에 구운 옛 흙 덮기(`potblend.mjs soilCover`)는 그릴 때 걷어 냄(`bareOf` — 화분) · 갈색으로(`dirtOf` — 잔디 판) — 화분 흙 색(`pot3d.mjs SOIL`)을 바꾸면 `palette.js POT_SOIL`도 같이. 흙 자리 색 = `DIRT`.
 - 📐 **v2 화면 틀 · 처음 안내 · 단추(2026-10-16 사용자 "기기에 따라 창 · 글자가 겹쳐" · "부가 설명은 빼줘 — 튜토리얼이나 ? 버튼" · "노란 버튼과 같이 있는 버튼들 크기 · 정렬"):** 장면은 늘 가로 270칸(넓은 기기 = 가운데 + 양옆 이어 그림), 높이 600 넘으면 아래 끝 줄 이어 그림(전투 = `tall` — 높이 그대로), **짧은 기기(480~599)는 장면마다 `dy = Math.min(0, H - 600)`로 아래 줄을 바닥에 붙임**(새 화면도 `--size 270x480` 촬영으로 확인). **화면에 설명 · 안내 문장을 늘 띄우지 말 것** — 처음 안내 `scenes/guide.js GUIDES`(화면마다 처음 한 번 · 가리키는 곳 = 누르는 자리 id · 봤음 = 서버 `state.guide` · 구석 '?' = 다시 보기)에 장을 더함(확인 `tools/shots/guidecheck.mjs` · 촬영 `20_guide_*`). 한 줄 · 한 기둥 단추는 같은 높이 · 같은 폭 · 같은 가장자리. 암시장은 뺌 — 팔기 · 해체 = 고른 식물 판(스마트팜 · 보관고 · 식물 관리 설정, `popups.js sellAsk/cutAsk` 확인 창), 암시장은 나중에 유저 간 거래 · 추가 구매처로 재배사 특정 레벨에 탐사 궤도에 등장(사용자). 물(물건) 아이콘 = 물뿌리개 `can`(속성 '물' = 물방울 `water` 그대로) · 비료 = 포대.
 - 🏟 **v2 장소 테마(2026-10-15 사용자: 시안 셋 다 "장소에 따라서"):** 우주선·온실·밤 정원 = `v2/src/art/theme.js`(판·단추·막대·에너지 칸·받침 색과 모양, 글자색은 바탕 `T.text`/판 `T.ptext`/대사 상자 `T.mtext` — 온실 크림 판엔 어두운 글자). 화면마다 `scene.theme`(키 또는 함수)을 라우터가 적용 — 새 화면·부품은 `C.*` 대신 `T.*`·`plate`·`btnBody`를 쓸 것. 배경 그림 = 코덱스(안내판 `node tools/pixel/big/bgguide.mjs <arena|title|home|nursery|explore|shop>` 을 주고 자리 고정) → `node tools/pixel/big/bgconv.mjs <원본> assets/v2/bg/<이름>.png [--band --h=600 | --h=405 --crop=348]`(OKLab k-평균 + 칸 최빈색) → `sprites.js BG_NAMES`에 등록. 경기장 배정 = 랭크(`venueOf`), 관중석은 그림에 포함, 빨리 감기 없음. **홈 = 코덱스 원형 방(테마 `loft`, 창밖 우주 `art/sky.js`, 전등 깜빡임·먼지 `art/loft.js` + 단계 그림 `loft_light.mjs`), 양육 = 기계 계단 스마트팜(`farm_lift_bg.mjs` 시점 json을 게임이 같이 씀) + 동면 보관고(`scenes/storage.js`).** 영상 검토 = `tools/shots/scenevideo.mjs --scene <장면> --act "ms:js" --png <ms,…> [--scale 2]`(촬영 중 원래 갱신은 `window.__pause`로 멈춤 — 안 멈추면 두 시계가 섞여 끌기·용수철 계산이 터짐, 확대 카메라·글자는 --scale 2로 봐야 실제와 같음).
 - 🧭 **v2 화면 배치·글자(2026-10-15 사용자 지적 "옆 창이 위에 쏠려", "글자가 깨져", "반석이 관중석까지"):** 자리 값은 그림을 재서 정한다 — 홈 옆 창 두 줄 = 식물 칠한 범위(`sprites.js bigBox`·`loft.js loftPlantCy`) 가운데, 전투 받침 = 콜로세움 관중석 벽 밑단(무대 y 133) 아래. 글자 밑 판은 꽉 채운다(`theme.js holoCanvas` 속 구멍 16칸에 1칸 — 반투명 점무늬로 밝은 벽이 비치면 글자 획 사이 흰 점 = 깨져 보임), 홈·식물 관리 글자 = `label` 12·`value` 13·`name` 16. 장면끼리 이어지는 연출(홈 식물 누름 → 암실·확대 → `plant.js` / 탐사선 → 홀로그램 → `hangar.js`)은 장면이 직접 그리고 라우터는 `'cut'`, 확대 카메라는 그림 밖이 드러나니 먼저 짙게 칠함(`loftView`).

diff --git a/docs/CHANGELOG.md b/docs/CHANGELOG.md
@@ -2,6 +2,14 @@
 
 > CLAUDE.md에서 분리한 전체 개발 로그. 최신 작업이 맨 위. 과거 맥락이 필요할 때만 읽으세요.
 
+### 2026-10-17 (59) — 화분 풀 · 밑동 흙 자리 · 마법사 덩치
+- **사용자 "경기나 대기실에서 화분의 흙이 어색한데, 스마트 팜처럼 풀로 해줄 수 있나? 그리고 풀도 더 자연스럽게 하고, 흙이나 자갈 등으로 자연스러운 경계가 되게":** 화분 흙 칸 = 스마트팜 잔디와 같은 띠(뒤 어둡게 · 앞 밝게) + 옆으로 긴 얼룩 · 드문 풀잎 점 · 뒤 테 밑 그늘 · 테 쪽 삐죽 풀잎(`art/potgrass.js capOf`), 밑동 둘레 = 울퉁불퉁한 갈색 흙 자리(가장자리는 풀이 군데군데 덮음) + 앞쪽 자갈 두세 알 + 밑동에 닿은 그늘 + 앞 풀잎(`ringOf`). 그리는 순서 = 화분 뒤 → 풀 → 흙 자리 → 식물 → 앞 풀잎 → 화분 앞(`sprites.js` drawBig · drawBigPose · drawBigPotted).
+- **옛 보라 흙 걷어 내기:** 식물 그림에는 흙 덮기(`potblend.mjs soilCover` — 화분 흙 칸을 그대로 베낀 보랏빛 무늬 · 닿은 그림자)가 구워져 있어 풀 위에 보라 흙 띠가 남음 → 그릴 때 그 칸(기본 각도 화분 뒤 그림과 같은 색 · ×0.68 · ×0.84)을 화분에선 지우고(`bareOf`) 스마트팜 잔디 판에선 갈색 흙으로 다시 칠함(`dirtOf`). 흙 색 = `palette.js DIRT`(갈색 다섯 단), 화분 그림의 흙 칸 찾기 = `POT_SOIL`(pot3d SOIL 그대로).
+- **스마트팜 잔디 판:** 밑동을 덮던 잔디 덤불 타원 대신 화분과 같은 흙 자리 · 자갈 · 앞 풀잎(`drawBigPlanted` — 앉힌 칸만큼 내려 흙 줄에 맞춤).
+- **유리 헬멧(아스트로캡) "흙과 몸 경계가 애매함":** 흰 밑동이 보랏빛 회색 흙에 묻혀 경계가 흐렸음 → 위 두 가지로 흰 밑동 · 초록 풀 · 갈색 흙이 갈림.
+- **마법사(위자드벨) "덩치 커지면 좋을 듯 — 중간체보다 머리나 몸통이 작은 느낌":** 자람의 큰 종 머리가 성체 얼굴보다 커 보였음 → 성체 ×1.06(`TUNE fit`) · 자람 = 성체 면적의 55%(73%였음) · 어린 32%(42%) → 키 50 · 61 · 73칸. 세 묶음 다시 내보냄 + 작은 칸 그림.
+- 검토 촬영 `07_battle_astro` · `02_home_astro` · `02_home_wizard`.
+
 ### 2026-10-17 (58) — 쿠폰
 - **사용자 "쿠폰코드 입력해서 상품 주는거 가능? 테스트용으로 나나 친구나 좀 줘보게":** 설정 → '쿠폰 입력'(온라인 · 로그인했을 때만) → 번호 → 서버가 확인해 보상을 넣고 '받은 것' 판(`popups.js couponForm`). 번호 = 영문 · 숫자 4~24자(띄어쓰기 · 붙임표 · 대소문자 무시), 계정마다 한 번 · 정한 계정 수 · 기간, 틀린 번호를 마구 넣지 못하게 계정 · IP마다 10분에 12번.
 - 서버: 표 `coupons` · `coupon_uses`(`server/schema.mjs`) · `POST /api/coupon` · 관리 `POST /api/admin/coupon`(만들기 · 고치기 · 지우기) · `GET /api/admin/coupons`(관리 열쇠), 보상 다듬기 · 주기 = `logic.js cleanCoupon/couponGive`(돈 · 보석 · 물 · 비료 · 회귀 주사 · 연료 · 부품 · 종자(일반 · 희귀) · 카드(일반 · 변이 · 카드 id)), 계정 지우기 때 받은 기록도 지움. 만들기 = `node server/coupon.mjs --url <주소> add <번호> --credits N … --max N --days N` · `list` · `del`. **실제 쿠폰 번호는 저장소에 적지 않음(PUBLIC)**.
